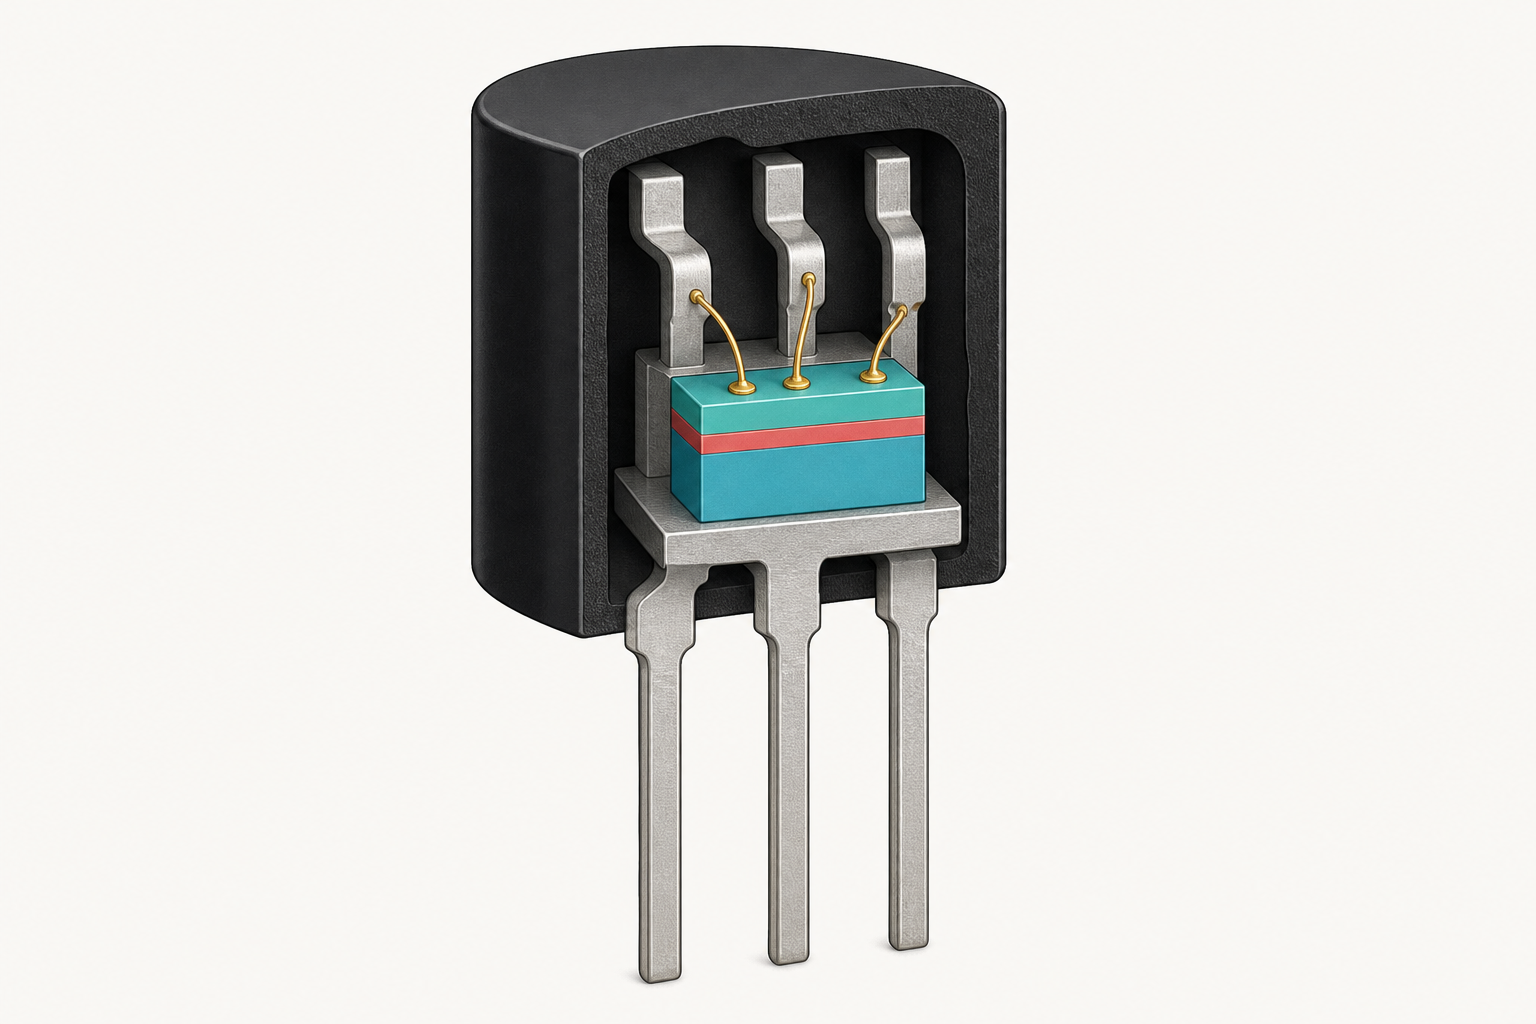
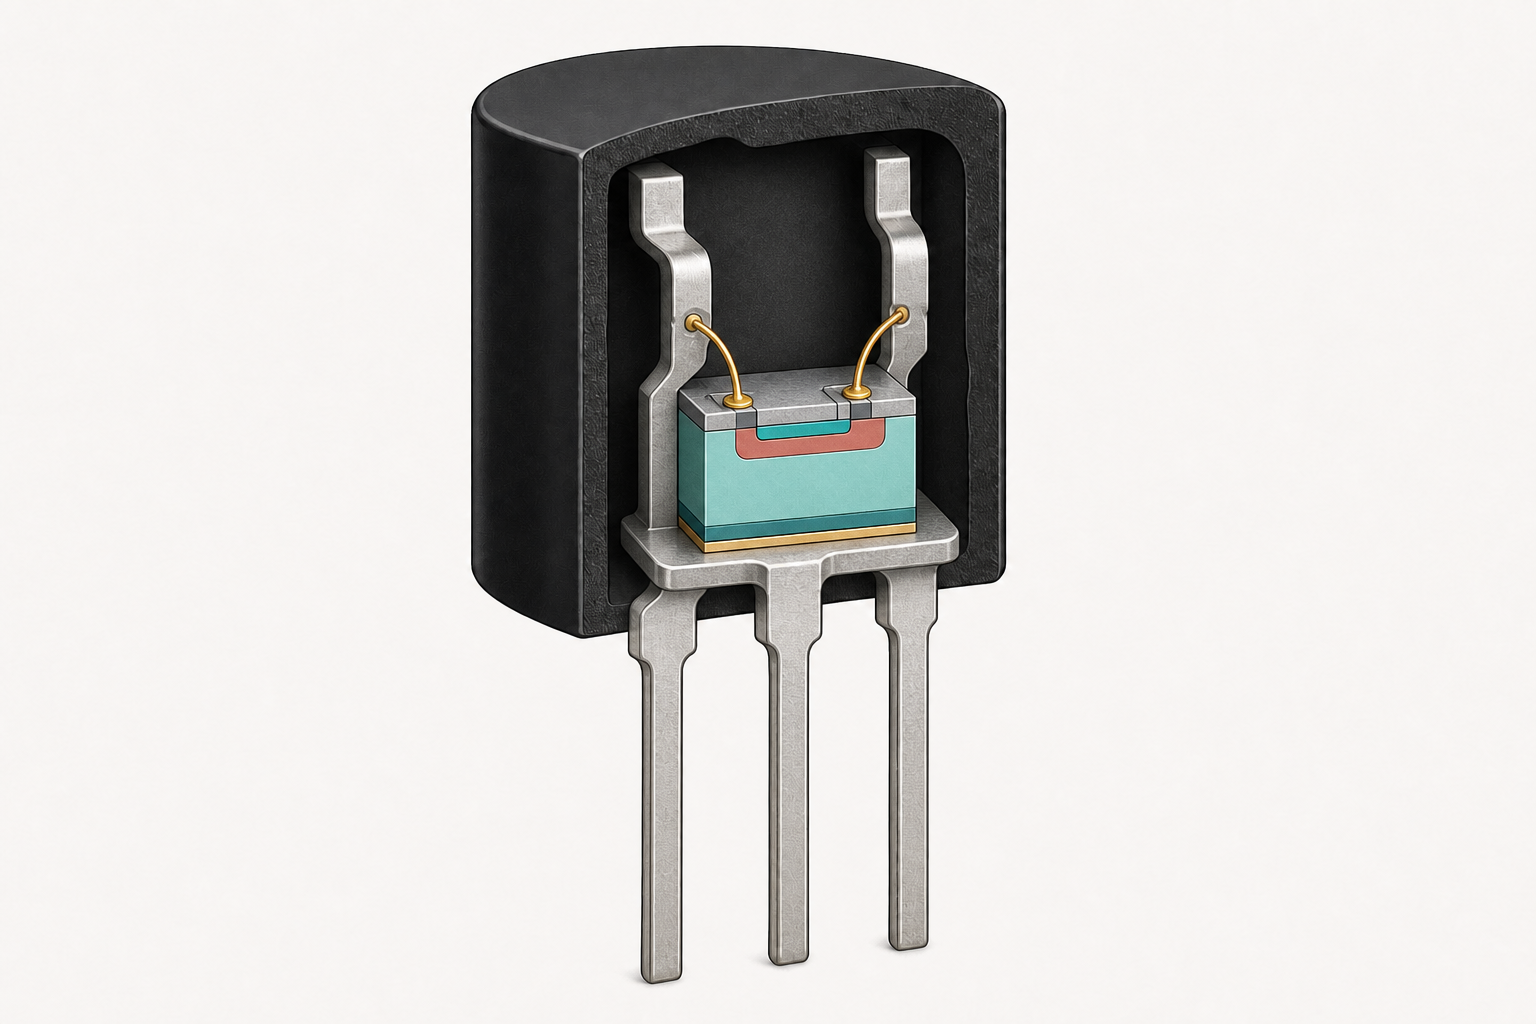
Correct device cutaway construction

diff --git a/bjt.html b/bjt.html
@@ -85,7 +85,7 @@
         <section id="bjtOverview" class="bjt-overview">
           <figure class="component-cutaway">
             <div class="cutaway-stage cutaway-bjt">
-              <img src="assets/device-cutaways/bjt-to92-cutaway.png" width="1536" height="1024" alt="Sectioned TO-92 NPN transistor showing three leads, lead frame, bond wires, die attach, and an idealized vertical NPN silicon die">
+              <img src="assets/device-cutaways/bjt-to92-cutaway.png" width="1536" height="1024" alt="Sectioned TO-92 NPN transistor showing three leads, a collector die paddle, two bond wires, and a planar vertical NPN silicon die">
               <span class="cutaway-marker marker-1" aria-hidden="true">1</span>
               <span class="cutaway-marker marker-2" aria-hidden="true">2</span>
               <span class="cutaway-marker marker-3" aria-hidden="true">3</span>
@@ -93,23 +93,25 @@
               <span class="cutaway-marker marker-5" aria-hidden="true">5</span>
               <span class="cutaway-marker marker-6" aria-hidden="true">6</span>
               <span class="cutaway-marker marker-7" aria-hidden="true">7</span>
+              <span class="cutaway-marker marker-8" aria-hidden="true">8</span>
             </div>
             <figcaption class="cutaway-caption">
               <div>
-                <p class="section-label">Real component</p>
+                <p class="section-label">Representative construction</p>
                 <h3>Inside a discrete NPN transistor</h3>
-                <p class="cutaway-note">Schematic TO-92 cutaway; geometry and layer thicknesses are not to scale. Pin order varies by part.</p>
+                <p class="cutaway-note">Planar vertical NPN in a TO-92 package. Doping colors and die dimensions are enlarged; pin order varies by part.</p>
               </div>
               <ol class="cutaway-legend">
                 <li><span>1</span><strong>Molded package</strong></li>
                 <li><span>2</span><strong>External leads</strong></li>
                 <li><span>3</span><strong>Lead frame</strong></li>
-                <li><span>4</span><strong>Bond wire</strong></li>
-                <li><span>5</span><strong>N emitter</strong></li>
-                <li><span>6</span><strong>Thin P base</strong></li>
+                <li><span>4</span><strong>Two bond wires</strong></li>
+                <li><span>5</span><strong>N+ emitter diffusion</strong></li>
+                <li><span>6</span><strong>P base diffusion</strong></li>
                 <li><span>7</span><strong>N collector</strong></li>
+                <li><span>8</span><strong>Backside collector attach</strong></li>
               </ol>
-              <p class="model-bridge"><strong>What the solver changes:</strong> a packaged BJT is commonly vertical, but this teaching model unfolds emitter, base, and collector laterally in 2D so both junctions and carrier transport remain visible.</p>
+              <p class="model-bridge"><strong>Electrical path:</strong> base and emitter use top pads and two bond wires; the collector reaches its lead through the metallized die backside and paddle. The solver unfolds this vertical device laterally in 2D.</p>
             </figcaption>
           </figure>
           <p class="abstraction-step">Physical component <span aria-hidden="true">→</span> lateral 2D teaching model</p>

diff --git a/index.html b/index.html
@@ -45,7 +45,7 @@
           </div>
           <figure class="component-cutaway">
             <div class="cutaway-stage cutaway-diode">
-              <img src="assets/device-cutaways/diode-do41-cutaway.png" width="1768" height="872" alt="Sectioned axial silicon diode showing its epoxy body, leads, contacts, and layered semiconductor die">
+              <img src="assets/device-cutaways/diode-do41-cutaway.png" width="1768" height="872" alt="Sectioned axial silicon rectifier showing coaxial leads, molybdenum slugs, brazed silicon die, glass passivation, and epoxy molding">
               <span class="cutaway-marker marker-1" aria-hidden="true">1</span>
               <span class="cutaway-marker marker-2" aria-hidden="true">2</span>
               <span class="cutaway-marker marker-3" aria-hidden="true">3</span>
@@ -56,18 +56,18 @@
             </div>
             <figcaption class="cutaway-caption">
               <div>
-                <p class="section-label">Real component</p>
+                <p class="section-label">Representative construction</p>
                 <h3>Inside an axial silicon diode</h3>
-                <p class="cutaway-note">Schematic cutaway; geometry and layer thicknesses are not to scale.</p>
+                <p class="cutaway-note">Glass-passivated brazed DO-41 construction. The die is enlarged for visibility; doping is not optically visible.</p>
               </div>
               <ol class="cutaway-legend">
                 <li><span>1</span><strong>Cathode band</strong></li>
-                <li><span>2</span><strong>Epoxy package</strong></li>
-                <li><span>3</span><strong>Axial lead</strong></li>
-                <li><span>4</span><strong>Metal contact</strong></li>
-                <li><span>5</span><strong>P region</strong></li>
-                <li><span>6</span><strong>PN junction</strong></li>
-                <li><span>7</span><strong>N region</strong></li>
+                <li><span>2</span><strong>Epoxy molding</strong></li>
+                <li><span>3</span><strong>Plated copper lead</strong></li>
+                <li><span>4</span><strong>Molybdenum slug</strong></li>
+                <li><span>5</span><strong>Silicon die</strong></li>
+                <li><span>6</span><strong>Brazed contacts</strong></li>
+                <li><span>7</span><strong>Glass passivation</strong></li>
               </ol>
               <p class="model-bridge"><strong>What the solver keeps:</strong> a one-dimensional path through the silicon across the PN junction. The package is omitted and its metal connections become ideal ohmic boundaries.</p>
             </figcaption>

diff --git a/styles.css b/styles.css
@@ -311,18 +311,19 @@ sub {
 .cutaway-diode .marker-1 { left: 32%; top: 36%; }
 .cutaway-diode .marker-2 { left: 43%; top: 31%; }
 .cutaway-diode .marker-3 { left: 88%; top: 54%; }
-.cutaway-diode .marker-4 { left: 72%; top: 53%; }
-.cutaway-diode .marker-5 { left: 58%; top: 49%; }
-.cutaway-diode .marker-6 { left: 58%; top: 57%; }
-.cutaway-diode .marker-7 { left: 58%; top: 64%; }
+.cutaway-diode .marker-4 { left: 63%; top: 50%; }
+.cutaway-diode .marker-5 { left: 56%; top: 49%; }
+.cutaway-diode .marker-6 { left: 53%; top: 51%; }
+.cutaway-diode .marker-7 { left: 48%; top: 42%; }
 
 .cutaway-bjt .marker-1 { left: 35%; top: 22%; }
 .cutaway-bjt .marker-2 { left: 52%; top: 85%; }
 .cutaway-bjt .marker-3 { left: 61%; top: 23%; }
 .cutaway-bjt .marker-4 { left: 47%; top: 34%; }
-.cutaway-bjt .marker-5 { left: 52%; top: 42%; }
+.cutaway-bjt .marker-5 { left: 52%; top: 43%; }
 .cutaway-bjt .marker-6 { left: 52%; top: 48%; }
 .cutaway-bjt .marker-7 { left: 52%; top: 55%; }
+.cutaway-bjt .marker-8 { left: 52%; top: 59%; }
 
 .cutaway-caption {
   display: grid;
